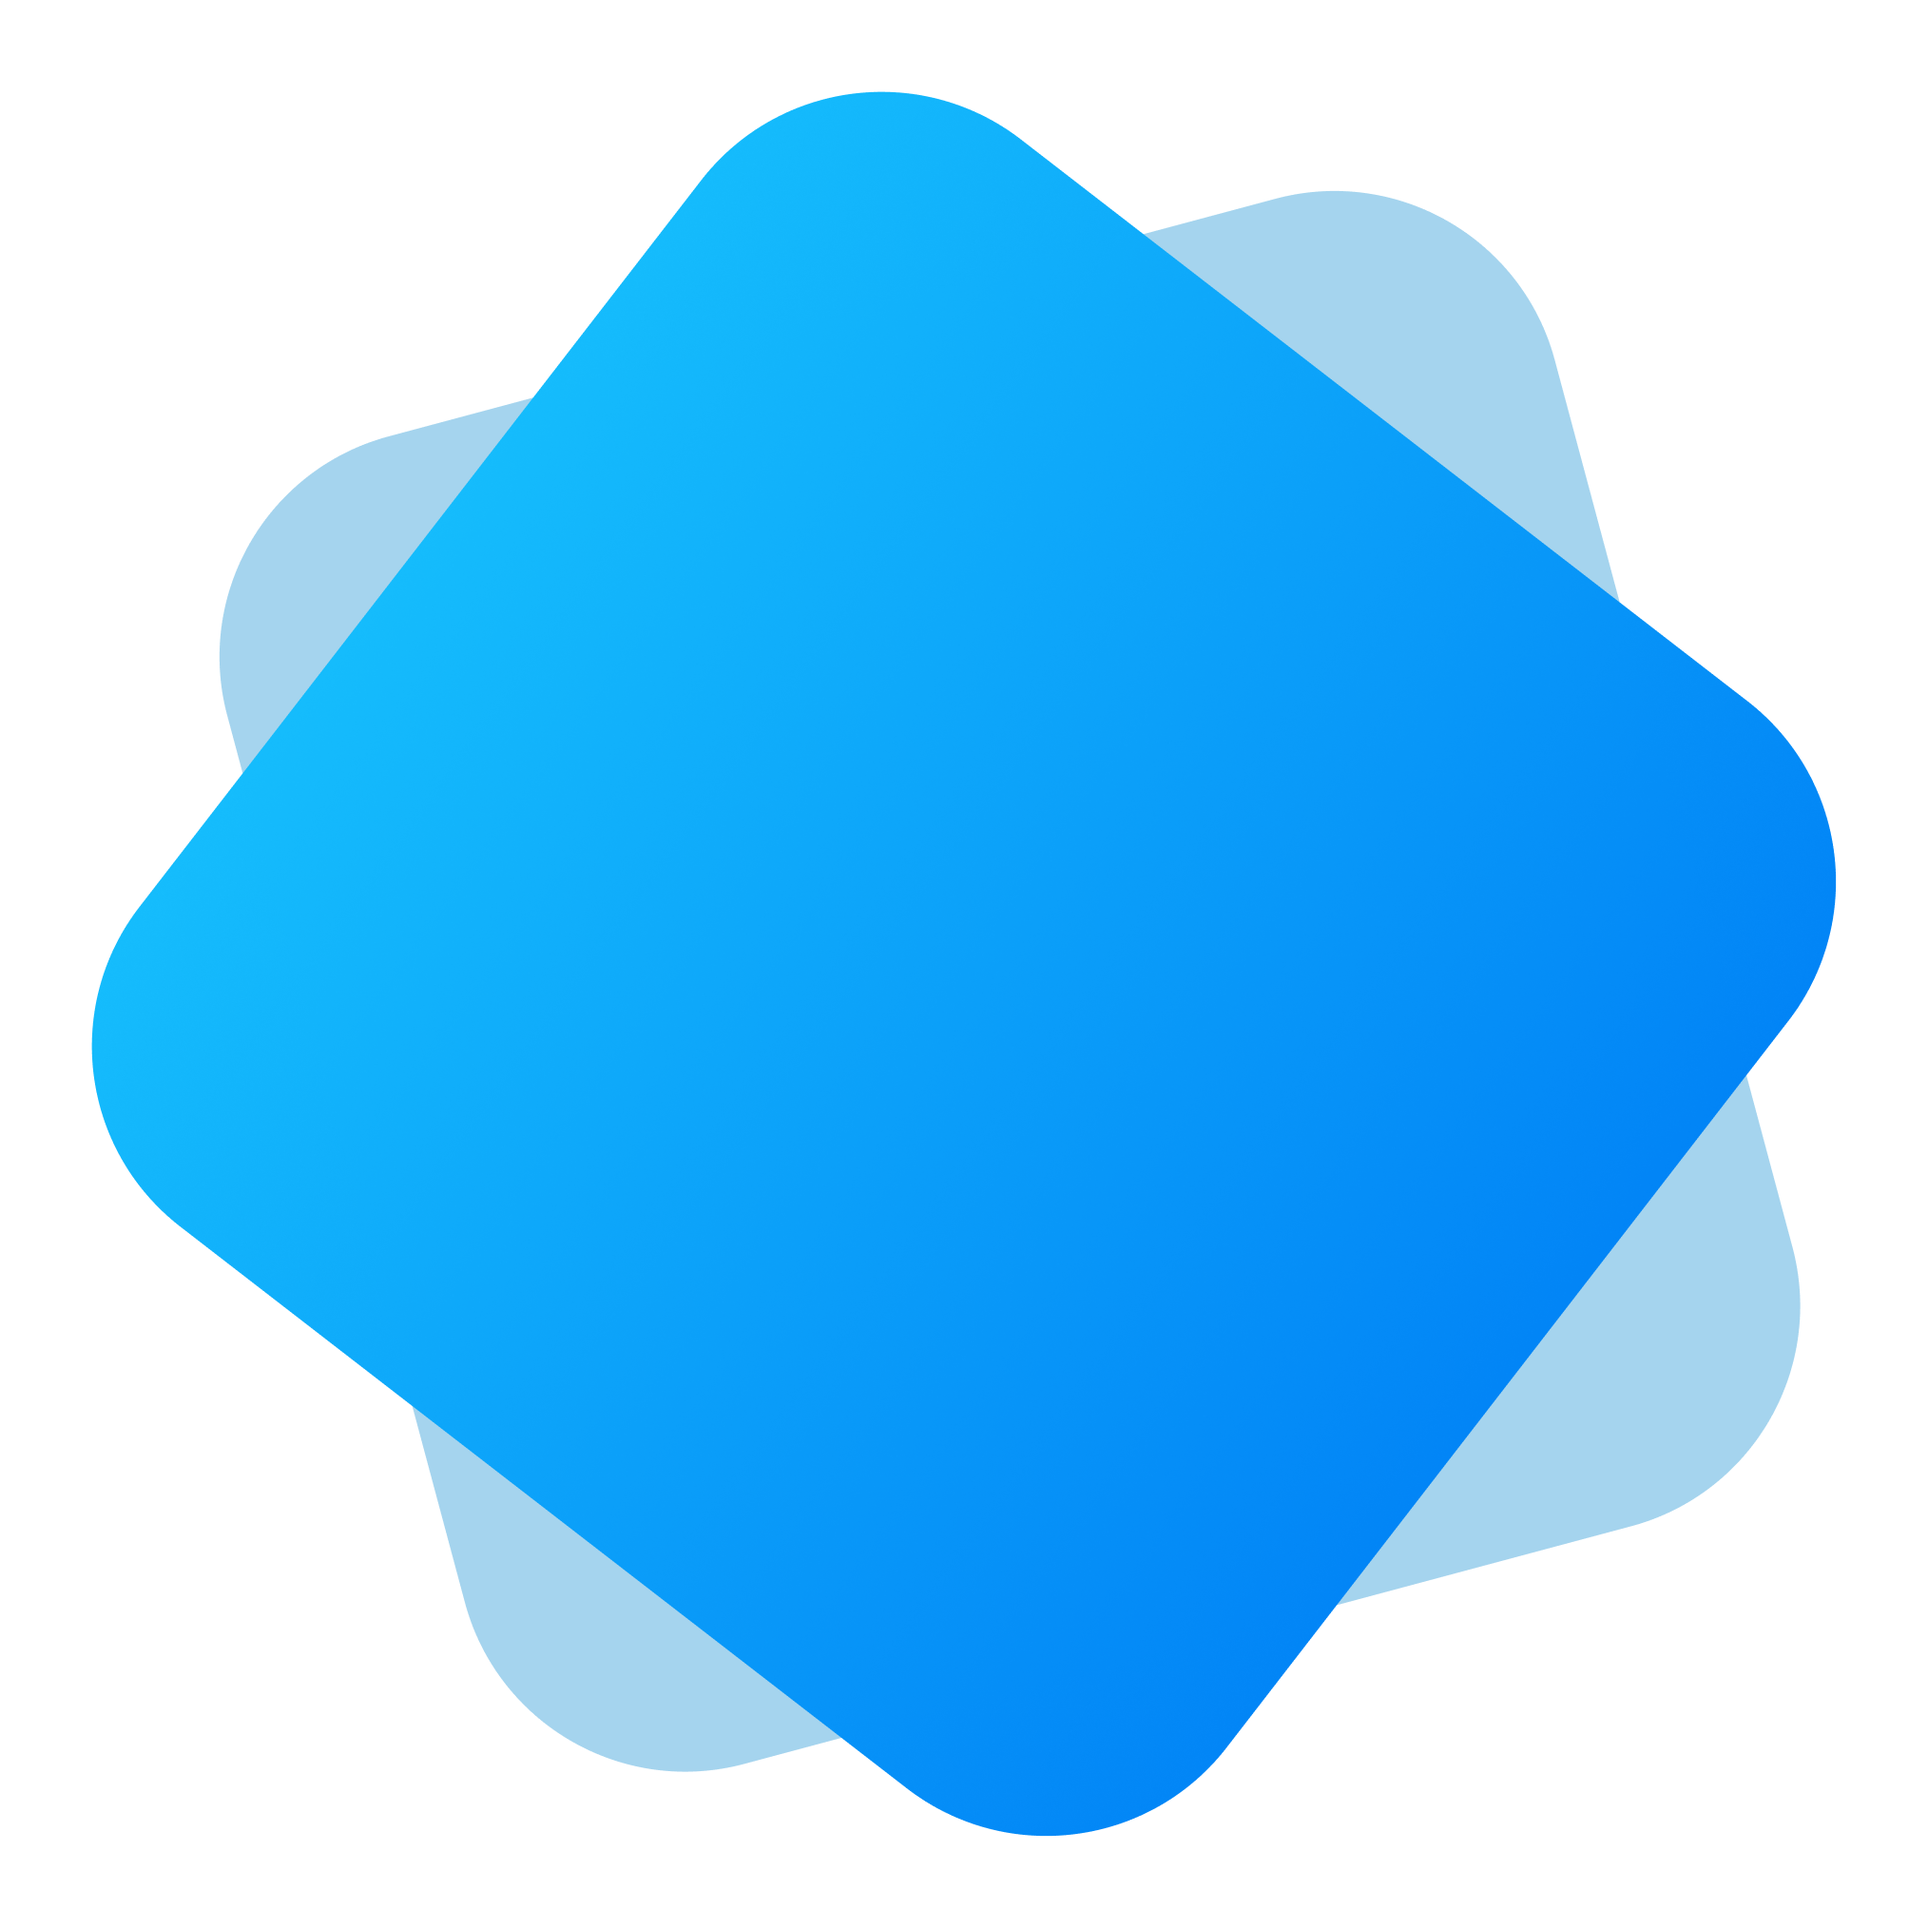
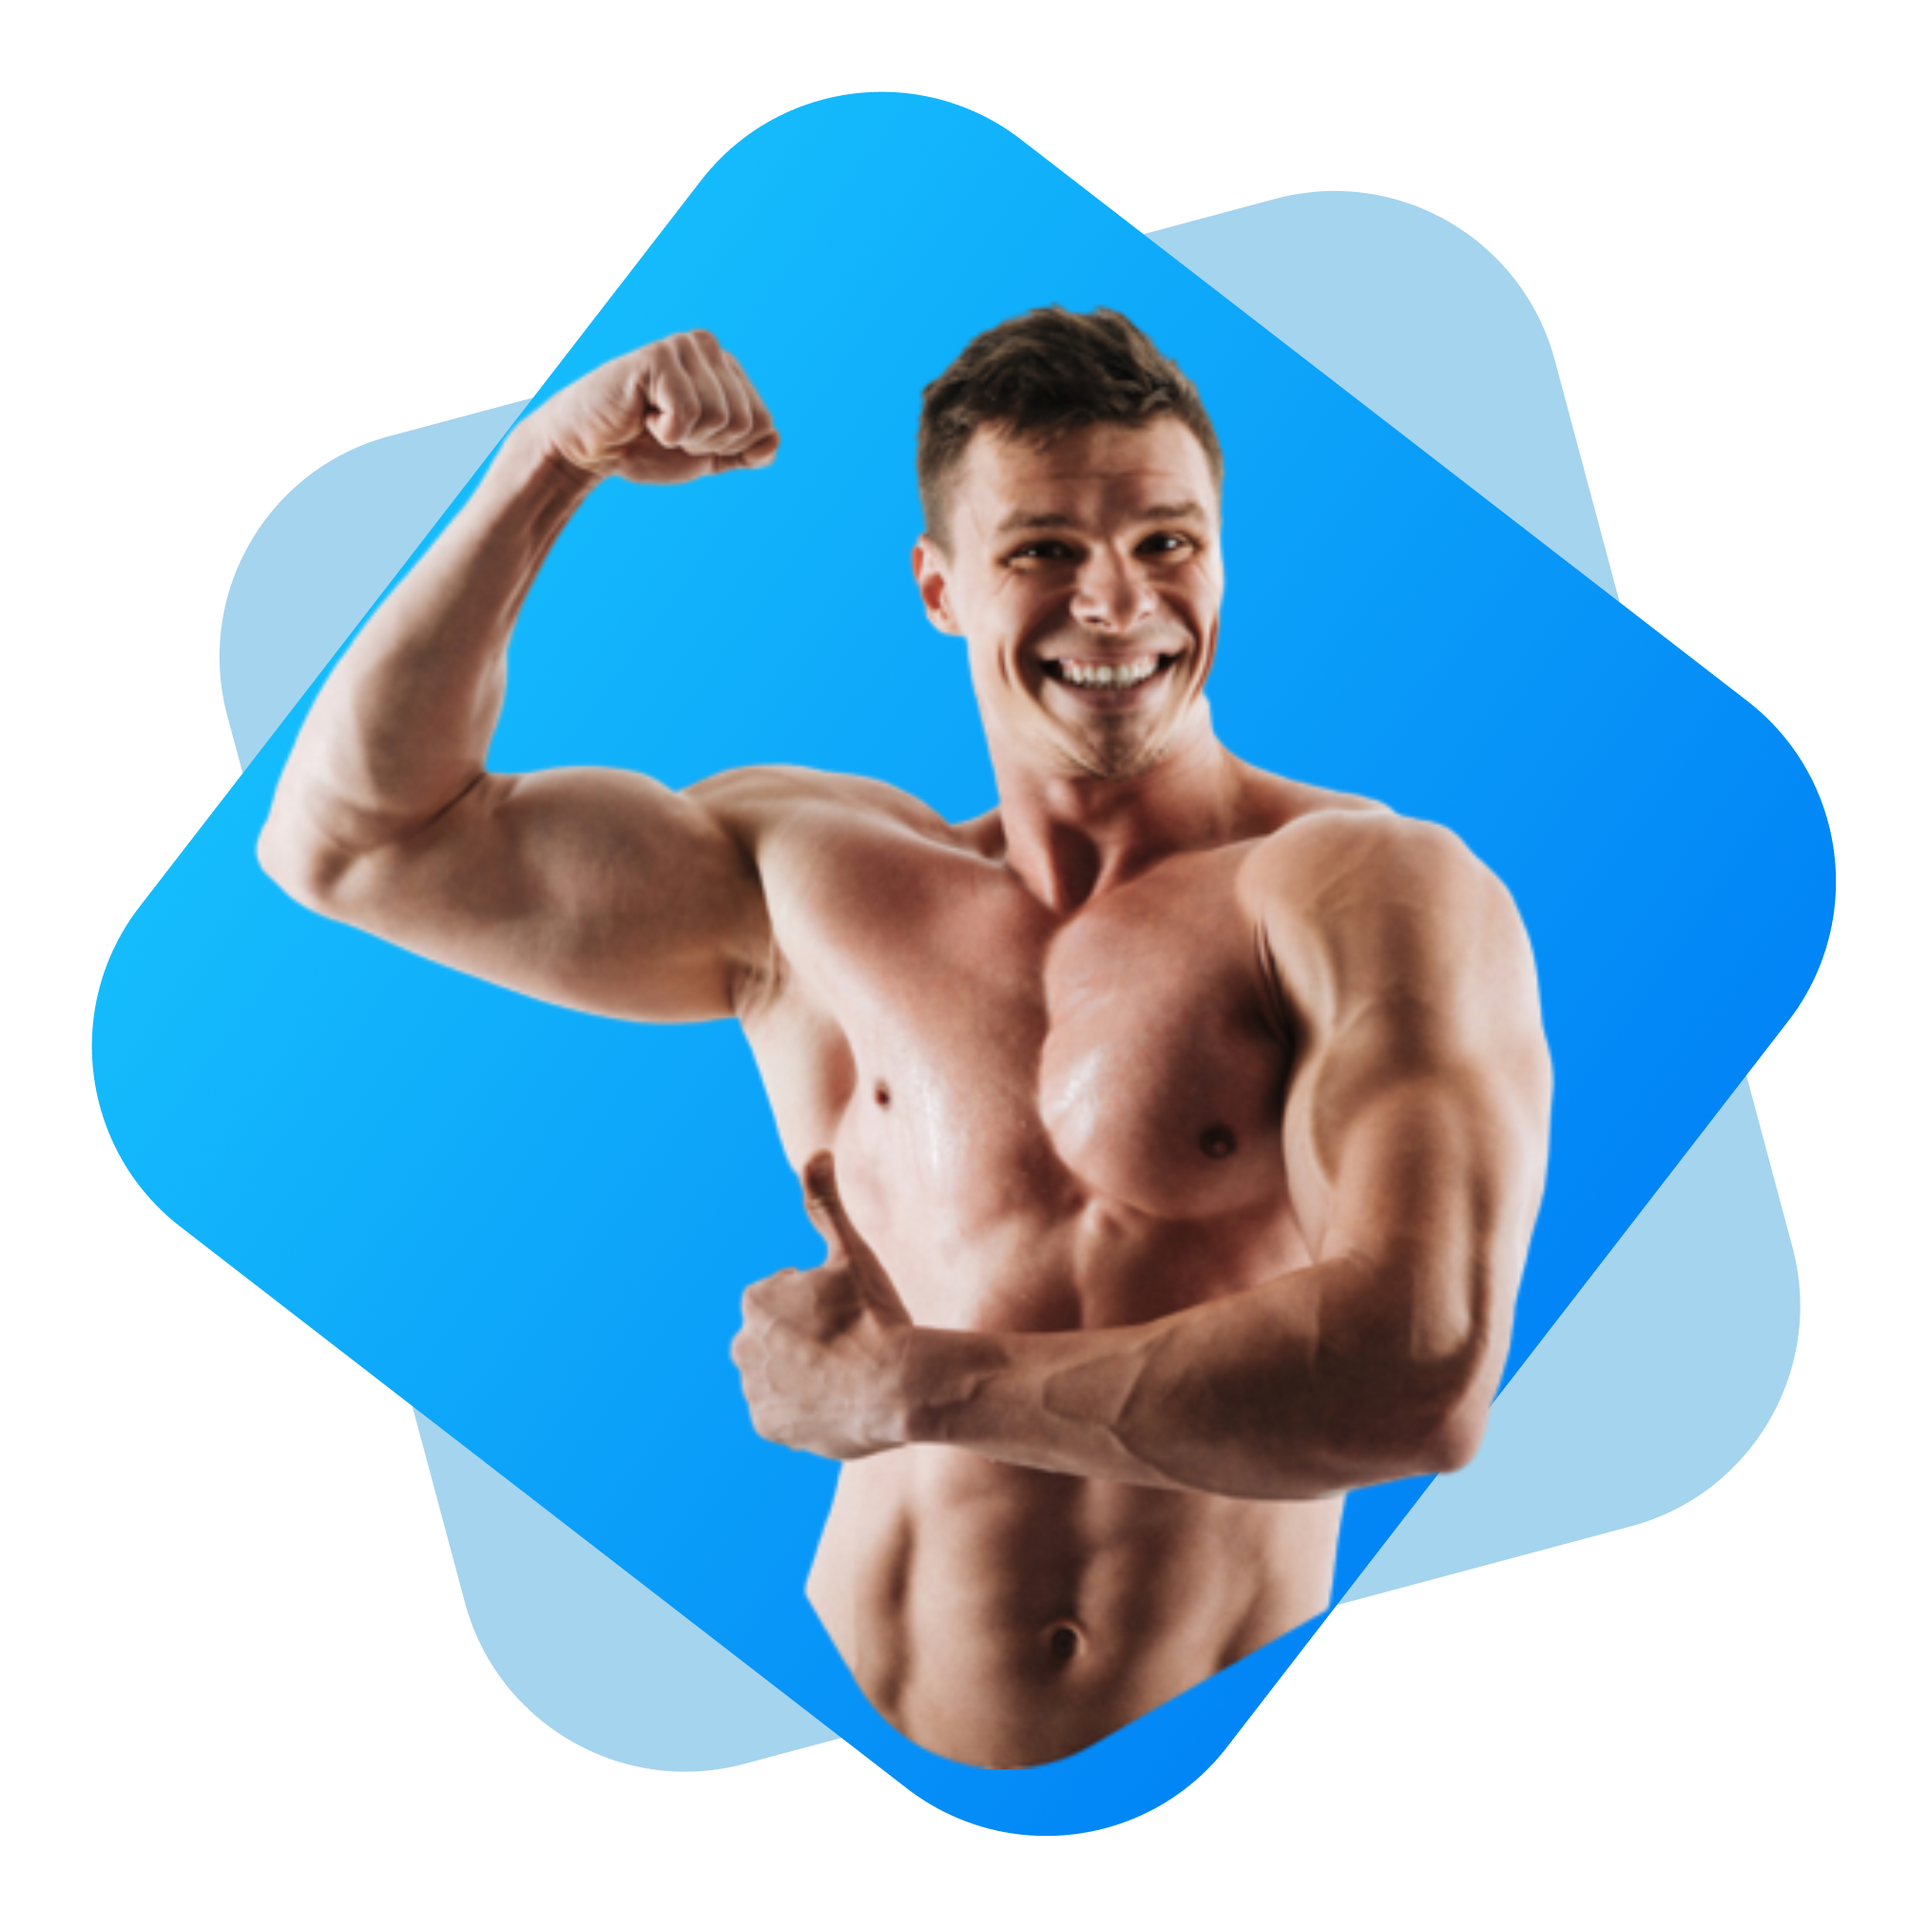
Header Section done

Changed region(s): [[0.1243, 0.1553, 0.8077, 0.932]]

diff --git a/index.html b/index.html
@@ -6,6 +6,29 @@
     <meta name="viewport" content="width=device-width, initial-scale=1.0" />
     <title>Eat Healthy</title>
     <link rel="stylesheet" href="./css/style.css" />
+    <link rel="preconnect" href="https://fonts.googleapis.com" />
+    <link rel="preconnect" href="https://fonts.gstatic.com" crossorigin />
+    <link
+      href="https://fonts.googleapis.com/css2?family=Baloo+2&display=swap"
+      rel="stylesheet"
+    />
   </head>
-  <body></body>
+  <body>
+    <!-- **Header Section -->
+    <section class="header">
+      <div class="header-text half-width">
+        <h1><span>Skip</span> The Diet,</h1>
+        <h1>Just Eat Healthy</h1>
+        <h1>With Food Network</h1>
+        <p>
+          Imagine you don't need a diet because we provide healthy and delicious
+          food for you!
+        </p>
+        <a href="www.facebook.com">Order Food</a>
+      </div>
+      <div class="header-image half-width">
+        <img src="./images/shapes/Group 8449.png" alt="Hero Image" />
+      </div>
+    </section>
+  </body>
 </html>

diff --git a/css/style.css b/css/style.css
@@ -1,0 +1,44 @@
+body {
+  font-family: "Baloo 2", cursive;
+}
+section {
+  display: flex;
+  padding: 5%;
+}
+
+.header {
+  background-image: url("../images/shapes/Frame 59.jpg");
+  background-repeat: no-repeat;
+}
+
+.half-width {
+  width: 50%;
+}
+
+.header-text {
+  font-size: 30px;
+}
+.header-text span {
+  color: orange;
+}
+
+.header-text h1 {
+  font-size: 40px;
+}
+
+.header-text p {
+  color: gray;
+  margin-bottom: 30px;
+}
+
+.header-text a {
+  text-decoration: none;
+  padding: 10px 40px;
+  background-image: linear-gradient(#5a3f37, #2c7744);
+  border-radius: 20px;
+  color: #fff;
+}
+
+.header-image img {
+  width: 80%;
+}
